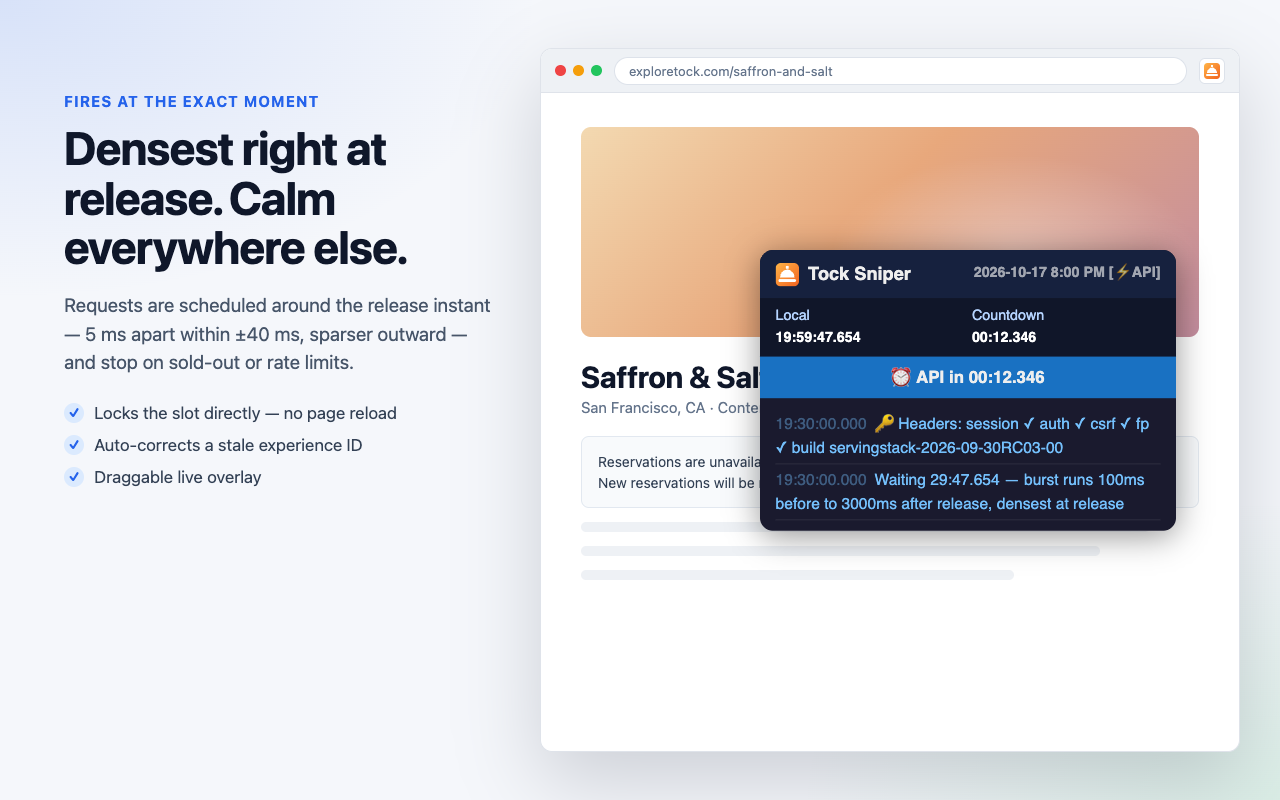
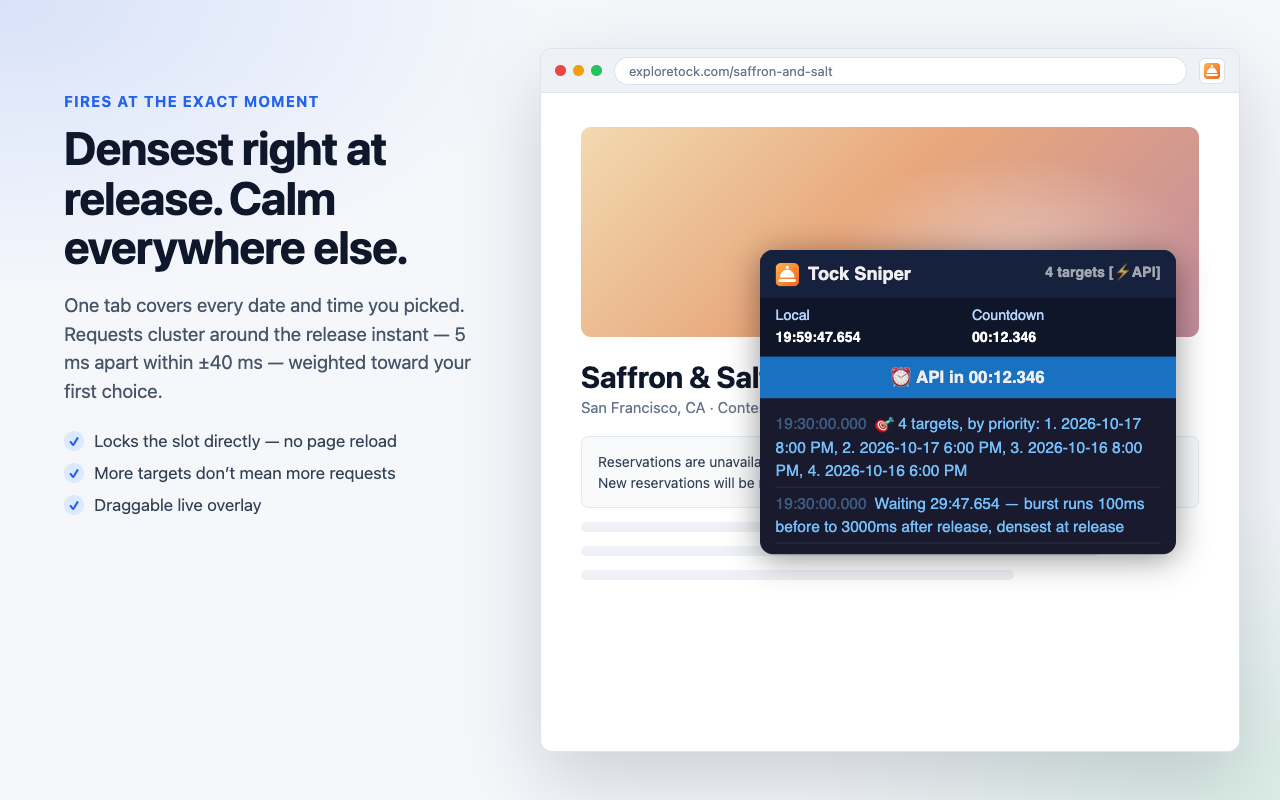
Store screenshots for v3.2.0
Regenerated from the real popup/overlay: numbered priority chips, one API tab for 4 targets with
weighted sends, the party-size option, seat-aware monitor and its Telegram messages. The screenshot
page now shows the overlay's whole log. Also rewords the popup's monitor hint ("until the restaurant
lists one" instead of "until bookings open").

Changed region(s): [[0.0312, 0.375, 0.375, 0.6562], [0.5938, 0.5, 0.9375, 0.7188], [0.75, 0.3125, 0.875, 0.3438]]

diff --git a/scripts/store-screenshots.html b/scripts/store-screenshots.html
@@ -75,28 +75,28 @@ const shot = Number(new URLSearchParams(location.search).get("shot") || 1);
 const SHOTS = {
   1: { kicker: "Set up in seconds", title: "Point it at the restaurant. It reads the rest.",
        body: "Click “Use this page” on any restaurant. Tock Sniper lists its experiences and prefills the release time.",
-       bullets: ["Experience IDs detected from the page", "Release time converted to your time zone", "One tab per date × time"],
-       popup: { config: { url: "", partySize: 4, releaseTime: "2026-10-09T19:45:00", prefTimes: ["6:00 PM", "8:00 PM"], dates: ["2026-10-16", "2026-10-17"], snipeMode: "api", expSource: "hybrid", experienceId: null },
+       bullets: ["Experience IDs detected from the page", "Release time converted to your time zone", "Dates and times in your order of preference"],
+       popup: { config: { url: "", partySize: 4, releaseTime: "2026-10-09T19:45:00", prefTimes: ["8:00 PM", "6:00 PM"], dates: ["2026-10-17", "2026-10-16"], snipeMode: "api", expSource: "hybrid", experienceId: null },
                 useTab: true, pick: 712345, prefill: true }, ext: true },
   2: { kicker: "Fires at the exact moment", title: "Densest right at release. Calm everywhere else.",
-       body: "Requests are scheduled around the release instant — 5 ms apart within ±40 ms, sparser outward — and stop on sold-out or rate limits.",
-       bullets: ["Locks the slot directly — no page reload", "Auto-corrects a stale experience ID", "Draggable live overlay"],
+       body: "One tab covers every date and time you picked. Requests cluster around the release instant — 5 ms apart within ±40 ms — weighted toward your first choice.",
+       bullets: ["Locks the slot directly — no page reload", "More targets don’t mean more requests", "Draggable live overlay"],
        overlay: "countdown" },
   3: { kicker: "Slot held", title: "Straight to checkout — you just pay.",
        body: "The first successful lock wins and the tab jumps to checkout. Every request is counted, so you know exactly what was sent.",
-       bullets: ["API, DOM-click or both, side by side", "Stops at the first 429", "Single attempt if you open it late"],
+       bullets: ["Stops at the first 429 or when sold out", "Only one tab ever sends", "Opened late? Checks the calendar before sending"],
        overlay: "success" },
-  4: { kicker: "Release delayed?", title: "Keep watching. Get pinged when it opens.",
-       body: "Optional monitor keeps checking a restaurant that hasn't opened yet and books as soon as it does. Optional Telegram messages to your own bot.",
-       bullets: ["Polls lightly; backs off 10 min after a 429", "One message per restaurant, not per tab", "Token stays in your browser"],
+  4: { kicker: "Sold out or delayed?", title: "Keep watching. Grab what opens up.",
+       body: "The optional monitor reads which times still have a table for your party and takes your time — or the closest open one. Alerts go to your own Telegram bot.",
+       bullets: ["Seats per time, straight from the calendar", "Closest open time within ±1 hour (adjustable)", "Never sends a lock when nothing is free"],
        popup: { config: { url: BASE_URL, partySize: 4, releaseTime: "2026-10-09T20:00:00", prefTimes: ["8:00 PM"], dates: ["2026-10-17"], snipeMode: "api", expSource: "hybrid", experienceId: 712345,
-                          monitor: { enabled: true, intervalSec: 20, hours: 6 }, notify: { telegram: { enabled: true, token: "123456789:demo-token-not-real", chatId: "123456789" } } },
+                          monitor: { enabled: true, intervalSec: 30, hours: 6, flexMinutes: 60 }, notify: { telegram: { enabled: true, token: "123456789:demo-token-not-real", chatId: "123456789" } } },
                 extras: true, scroll: true },
-       notes: ["🔓 Bookings just opened at Saffron & Salt.\nTrying to lock: 2026-10-17 8:00 PM (4 guests)…", "🎉 Locked Saffron & Salt · 2026-10-17 8:00 PM · 4 guests!\nComplete checkout within ~10 min in the browser."] },
-  5: { kicker: "Built for release night", title: "Every date and time you want, at once.",
-       body: "Add dates and times as chips, pick API, DOM or both, and arm. Dark mode included.",
-       bullets: ["Date × time targets", "Manual, auto or hybrid experience ID", "Auto-saves as you type"],
-       popup: { config: { url: BASE_URL, partySize: 2, releaseTime: "2026-10-09T20:00:00", prefTimes: ["6:00 PM", "8:00 PM"], dates: ["2026-10-16", "2026-10-17"], snipeMode: "both", expSource: "hybrid", experienceId: 712345 }, scroll: true },
+       notes: ["🔓 Seats at Saffron & Salt — 2026-10-17 8:30 PM, 4 guests\nTrying to lock it…", "🎉 Locked Saffron & Salt · 2026-10-17 8:30 PM · 4 guests!\nComplete checkout within ~10 min in the browser."] },
+  5: { kicker: "Built for release night", title: "Every date and time you want, in your order.",
+       body: "Add dates and times as numbered chips — they’re tried in that order. Pick API, DOM or both, and arm. Dark mode included.",
+       bullets: ["Priorities: first date and time first", "Only single seats sold? Book as many as offered", "Exportable activity log"],
+       popup: { config: { url: BASE_URL, partySize: 2, partyPolicy: "max", releaseTime: "2026-10-09T20:00:00", prefTimes: ["8:00 PM", "6:00 PM"], dates: ["2026-10-17", "2026-10-16"], snipeMode: "api", expSource: "hybrid", experienceId: 712345 }, scroll: true },
        dark: true },
 };
 
@@ -156,9 +156,9 @@ async function renderPopup(opts) {
   }
   if (opts.extras) doc.querySelector("#extras").open = true;
   const full = doc.documentElement.scrollHeight;
-  const maxH = s.dark ? 760 : 704 - 44 - 8;
+  const maxH = s.dark ? 800 : 704 - 44 - 8;
   frame.style.height = Math.min(full, maxH) + "px";
-  if (s.dark) { frame.style.left = "800px"; frame.style.top = "20px"; }
+  if (s.dark) { frame.style.left = "800px"; frame.style.top = "0px"; }
   else { frame.style.left = (540 + 700 - 360 - 14) + "px"; frame.style.top = (48 + 44 + 6) + "px"; }
   if (opts.scroll) win.scrollTo(0, full);
 }
@@ -176,26 +176,26 @@ async function renderOverlay(kind) {
   const T = new Date("2026-10-09T20:00:00");
   const fmt = (offsetMs) => { const d = new Date(T.getTime() + offsetMs); return d.toTimeString().slice(0, 8) + "." + String(d.getMilliseconds()).padStart(3, "0"); };
   const set = (id, v) => (document.getElementById(id).textContent = v);
-  set("ts-date", "2026-10-17 8:00 PM [⚡API]");
+  set("ts-date", "4 targets [⚡API]");
   const status = document.getElementById("ts-status");
   const log = document.getElementById("ts-log");
   const add = (off, msg, type = "info") => log.insertAdjacentHTML("beforeend", `<div class="ts-entry ${type}"><span class="ts-time">${fmt(off)}</span>${msg}</div>`);
   if (kind === "countdown") {
     set("ts-local", fmt(-12346)); set("ts-countdown", "00:12.346");
     status.className = "ts-status waiting"; status.textContent = "⏰ API in 00:12.346";
-    add(-1800000, "🔑 Headers: session ✓ auth ✓ csrf ✓ fp ✓ build servingstack-2026-09-30RC03-00");
+    add(-1800000, "🎯 4 targets, by priority: 1. 2026-10-17 8:00 PM, 2. 2026-10-17 6:00 PM, 3. 2026-10-16 8:00 PM, 4. 2026-10-16 6:00 PM");
     add(-1800000, "Waiting 29:47.654 — burst runs 100ms before to 3000ms after release, densest at release");
   } else {
     set("ts-local", fmt(184)); set("ts-countdown", "-00:00.184");
     status.className = "ts-status success"; status.textContent = "🛒 Slot locked! Loading checkout...";
-    add(-300, "🔑 Headers: session ✓ auth ✓ csrf ✓ fp ✓ build servingstack-2026-09-30RC03-00");
-    add(-299, "🚀 API lock: 2026-10-17T20:00, 4 guests, exp 712345 [hybrid]");
-    add(-298, "🗓 42 sends planned, 100ms before to 3000ms after release");
-    add(52, "📋 Offerings: 712345 Autumn Tasting Menu (1/2/3/4/5/6p); 712346 Chef's Counter Omakase (2p)");
+    add(-299, "🚀 API lock: 2026-10-17 8:00 PM → 2026-10-17 6:00 PM → 2026-10-16 8:00 PM → 2026-10-16 6:00 PM, 4 guests, exp 712345 [hybrid]");
+    add(-298, "🗓 41 sends planned, shared by 4 targets by priority (48/24/16/12%), 100ms before to 3000ms after release");
+    add(52, "📋 Offerings: 712345 Autumn Tasting Menu (1–6 guests); 712346 Chef's Counter Omakase (2 guests only)");
     add(61, "⏳ #4: 410 Unfortunately, someone else just selected this and it is no longer available.");
-    add(183, "✅ API lock success! Attempt 19: 2026-10-17T20:00 | Autumn Tasting Menu", "success");
+    add(183, "✅ API lock success! 2026-10-17 8:00 PM, attempt 19: 2026-10-17T20:00 | Autumn Tasting Menu", "success");
     add(184, "📊 Sent 19 lock, 4 offerings → 410×12 in 302ms");
   }
+  log.style.maxHeight = el.style.maxHeight = "none"; // show the whole log (the real overlay scrolls)
   log.scrollTop = log.scrollHeight;
 }
 

diff --git a/popup.html b/popup.html
@@ -220,7 +220,7 @@
           <option value="120">±2 hours</option>
           <option value="1440">Any time that day</option>
         </select>
-        <small>API tabs only. Polls the experience list until bookings open, then also the calendar (seats per time) and tries a lock only on a time with a table for your party. Waits 10 min after a 429. Stops on Disarm.</small>
+        <small>API tabs only. Polls the experience list until the restaurant lists one, then also the calendar (seats per time) and tries a lock only on a time with a table for your party. Waits 10 min after a 429. Stops on Disarm.</small>
       </div>
 
       <label class="check"><input type="checkbox" id="tgEnabled"> Telegram notifications</label>
